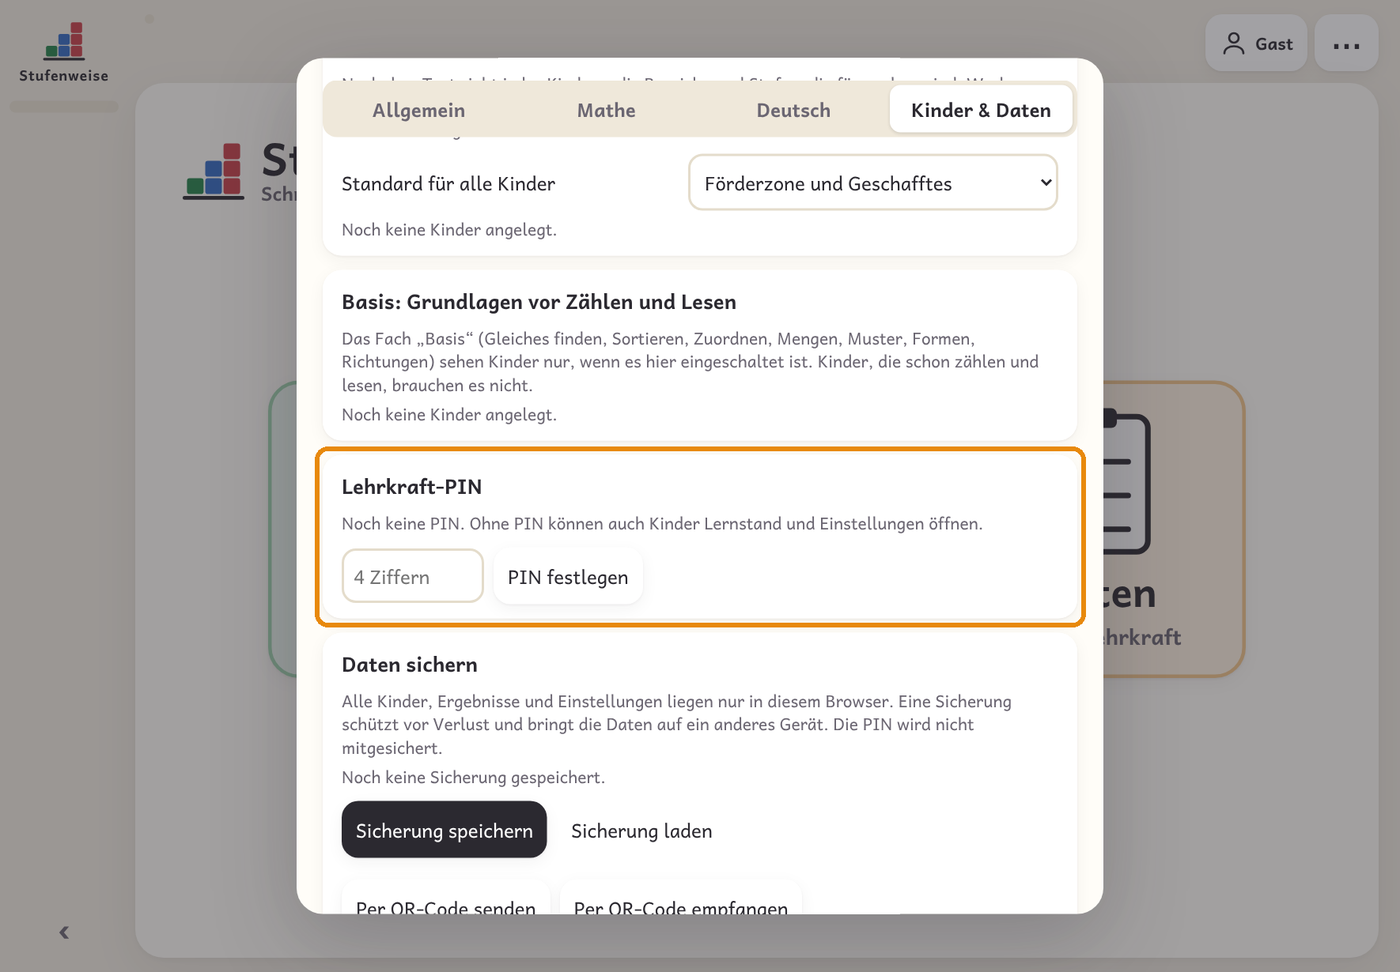
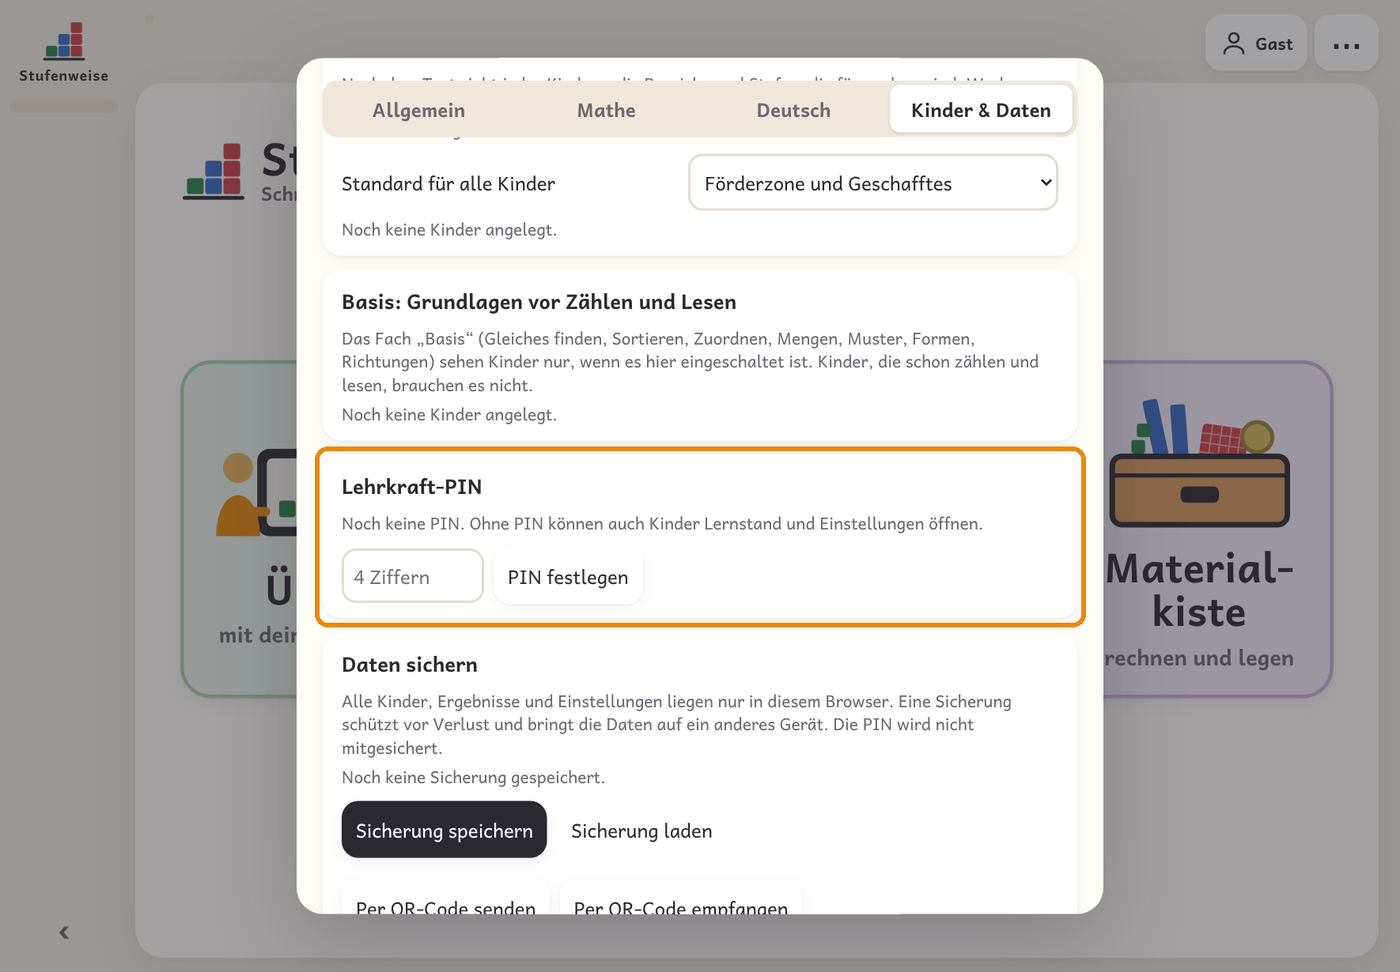
Testversion aus entwicklung (fda4302 = 0.30.0)
Claude-Session: https://claude.ai/code/session_01EfzymwcCT74kCf4Hq4zjqh

diff --git a/index.html b/index.html
@@ -9848,7 +9848,7 @@ document.addEventListener('change', e => { const c = e.target.closest('[data-sub
 document.addEventListener('change', e => { const s = e.target.closest('[data-guide-pid]'); if(!s) return; const p = data.profiles.find(x => x.id === s.dataset.guidePid); if(p){ p.guide = s.value || undefined; saveData(); render(); } });
 
 /* ---------- Rückmeldung (Testphase): Art, Schwere, Text + automatischer Kontext → E-Mail ---------- */
-const APP_VERSION = '0.30.0 · Testversion 1c66f25 · 20.11.2026';
+const APP_VERSION = '0.31.0 · Testversion fda4302 · 20.11.2026';
 /* Danke-Seite: Namen nur mit Einverständnis eintragen, z. B. 'Vorname Nachname (Schule)' */
 const THANKS = [];
 const FB_REPO = 'https://github.com/Steffinuss/stufenweise';

diff --git a/tests/anleitung_bilder.py b/tests/anleitung_bilder.py
@@ -91,6 +91,16 @@ async def main():
         await pg.click('#btn-more'); await pg.click('#btn-help'); await pg.wait_for_timeout(300)
         await pg.evaluate("[...document.querySelectorAll('#dlg-help *')].filter(e=>e.textContent.trim().startsWith('Freie Software') && e.textContent.trim().length<20).pop().scrollIntoView({block:'start', behavior:'instant'})"); await pg.wait_for_timeout(500)
         await shot('15_lizenz')
+        # Materialkiste (seit 0.30.0): Startseite → Materialkiste → Kind → Taschenrechner mit Ergebnis als Material
+        await pg.keyboard.press('Escape'); await pg.wait_for_timeout(200)
+        await pg.click('#btn-home'); await pg.wait_for_timeout(300)
+        if await pg.locator('[data-ctx-reset]').count(): await pg.click('[data-ctx-reset]'); await pg.wait_for_timeout(300)
+        await pg.click('[data-ctx-kiste]'); await pg.wait_for_timeout(200)
+        if await pg.locator('.home-names [data-home-pick]').count(): await pg.click('.home-names [data-home-pick]:not([data-home-pick=""])'); await pg.wait_for_timeout(200)
+        await pg.click('.ct-tile[data-kiste="tcalc"]'); await pg.wait_for_timeout(200)
+        for k in ['1', '2', '3', '4', '*', '3', '=']: await pg.click(f'[data-trk="{k}"]')
+        await pg.mouse.move(5, 800)
+        await shot('16_materialkiste', 400, hl='.rail [data-kiste="tcalc"]')
         json.dump(HL, open(OUT+'hl.json','w'))
         await b.close(); print('ERR', errs)
 asyncio.run(main())

diff --git a/BACKLOG.md b/BACKLOG.md
@@ -4,7 +4,7 @@ Geplante Entwicklungsaufgaben für Stufenweise. Begonnenes steht in `IN_PROGRESS
 
 Regeln (Stand 17.11.2026): Der Funktionsumfang von `main` ist eingefroren, weil die App an Schulen genutzt wird. Neues entsteht nur im Zweig `entwicklung`, wird in der Testversion gezeigt und erst nach Stefans OK freigegeben (`docs/entwicklung.md`). Didaktische Entscheidungen trifft Stefan.
 
-Stand: 20.11.2026
+Stand: 20.11.2026 (0.30.0)
 
 ## Vorgeschlagene Reihenfolge
 
@@ -14,7 +14,7 @@ Stand: 20.11.2026
 | 1 | ~~**C** Basis: bessere Progression~~ | mittel | freigegeben in 0.29.0 (20.11.2026), siehe `CHANGELOG.md` |
 | 2 | ~~**B** Unterricht: Zahl im Zwanzigerfeld~~ | klein | freigegeben in 0.29.0 (20.11.2026), siehe `CHANGELOG.md` |
 | 3 | ~~**A** Plus und Minus aufteilen~~ | groß | freigegeben in 0.29.0 (20.11.2026), siehe `CHANGELOG.md` | 
-| 4 | **D** Materialkiste (Hilfen für Schüler*innen) | mittel | gebaut 20.11. in `entwicklung`, in der Testversion; wartet auf Stefans Freigabe (`IN_PROGRESS.md`) |
+| 4 | ~~**D** Materialkiste (Hilfen für Schüler*innen)~~ | mittel | freigegeben in 0.30.0 (20.11.2026), siehe `CHANGELOG.md` |
 
 Alternative: B zuerst als schneller Gewinn, während Stefan den Basis-Test ausprobiert.
 
@@ -22,7 +22,7 @@ Alternative: B zuerst als schneller Gewinn, während Stefan den Basis-Test auspr
 
 ## D: Materialkiste – Hilfen für Schüler*innen als eigenes Modul
 
-**Status:** gebaut 20.11.2026 in `entwicklung`, in der Testversion; wartet auf Stefans Rückmeldung und Freigabe (`IN_PROGRESS.md`).
+**Status:** erledigt 20.11.2026, freigegeben in 0.30.0 (Stefan: „Sieht gut aus“).
 **Wunsch Stefan (20.11.):** Die Rechenhilfe soll kein Teil von Mathe/Plus-Minus sein, sondern ein ganz unabhängiges Modul, „quasi wie ein Taschenrechner, Materialvorrat usw.“ für Schüler*innen.
 
 **Ausgangslage:**

diff --git a/CHANGELOG.md b/CHANGELOG.md
@@ -5,6 +5,10 @@ Versionen: Hauptversion.Nebenversion.Korrektur (Korrektur = Fehlerbehebung, Nebe
 
 ## Unveröffentlicht (Zweig `entwicklung`, Testversion)
 
+- noch nichts
+
+## 0.30.0 – 20.11.2026
+
 Neu:
 - **Materialkiste** (Backlog D): vierte Kachel auf der Startseite neben Üben, Unterricht und Testen. Hilfen für Kinder, die eine Aufgabe haben (z. B. vom Arbeitsblatt): Rechenhilfe, Taschenrechner, Frei legen, Zwanzigerfeld, Hundertertafel, Zahlenstrahl, Uhr. Für alle Kinder, auch in der geführten Oberfläche; keine Bewertung, keine Runden, kein „Schwerer/Leichter“, freier Zahlenraum.
 - **Taschenrechner** in der Materialkiste: plus, minus, mal (·), geteilt (:) mit Zahlen bis 10 000, große Tasten, auch mit der Tastatur; geteilt mit Rest; Ergebnis wahlweise als Material (Tausender, Hunderter, Zehner, Einer).
@@ -12,7 +16,7 @@ Neu:
 
 Geändert:
 - Die Rechenhilfe ist aus der Mathe-Leiste und den Mathe-Kacheln in die Materialkiste umgezogen. Aufgaben in der Rechenhilfe werden nicht mehr protokolliert.
-- Hilfe in der App und Anleitung beschreiben die Materialkiste.
+- Hilfe in der App und Anleitung beschreiben die Materialkiste; Bildschirmfotos der Anleitung erneuert.
 
 Für Entwickler*innen: `app.kiste`, `KISTE_TOOLS`, `kisteGo`, `kisteCount`, `data.kiste[pid][werkzeug]` (beim Zusammenführen mehrerer Fenster addiert wie `errs`), Taschenrechner `app.tr`/`renderTcalc` als Werkzeug in `TOOL_MODES` (`tcalc`); neuer Test `tests/materialkiste.py`.
 

diff --git a/docs/anleitung.md b/docs/anleitung.md
@@ -135,6 +135,8 @@ Die vierte Kachel auf der Startseite heißt **Materialkiste**. Sie ist für den 
 - **Taschenrechner:** plus, minus, mal (·) und geteilt (:) mit Zahlen bis 10 000, große Tasten, auch mit der Tastatur. Geteilt rechnet ohne Komma, mit Rest („17 : 5 = 3 Rest 2“). Mit **Ergebnis als Material** (oben) zeigt er das Ergebnis zusätzlich als Tausender, Hunderter, Zehner und Einer. Ein weiteres Rechenzeichen rechnet mit dem Ergebnis weiter, **C** löscht alles.
 - **Frei legen, Zwanzigerfeld, Hundertertafel, Zahlenstrahl, Uhr:** dieselben Werkzeuge wie im Unterricht an der Tafel.
 
+![Materialkiste: Taschenrechner mit dem Ergebnis als Material, links die Werkzeuge](bilder/16_materialkiste.png)
+
 Links wechselt das Kind das Werkzeug, **Fertig** führt zurück zur Auswahl. Alle Kinder sehen die Materialkiste, auch in der geführten Oberfläche. Es gibt keine Bewertung, keine Runden und keine Vorschläge „Schwerer/Leichter“. Gespeichert wird nur, wie oft ein Kind welches Werkzeug geöffnet hat (bei „Gast“ nichts). Das steht im Lernstand unter „Materialkiste (selbst genutzt)“ (auch beim Kopieren und in der Elterninfo) und im ILEB-Vorschlag für Mathe als Satz unter „Lernstand“.
 
 Die **Startrunde** (3 Aufgaben) eignet sich zum Aufwärmen, die **Lernlandkarte** zeigt, was das Kind schon kann.

diff --git a/IN_PROGRESS.md b/IN_PROGRESS.md
@@ -5,11 +5,4 @@ Arbeitsweise mit zwei Zweigen: `docs/entwicklung.md`.
 
 Stand: 20.11.2026
 
-## D: Materialkiste (Hilfen für Schüler*innen als eigenes Modul)
-
-Begonnen und gebaut 20.11.2026 im Zweig `entwicklung`, in der Testversion zum Ausprobieren. Wartet auf Stefans Rückmeldung und Freigabe.
-Entscheidungen und Umsetzung: `BACKLOG.md` → D; Änderungen: `CHANGELOG.md` → Unveröffentlicht.
-
-Zum Ausprobieren: Startseite → Materialkiste → Kind → Werkzeug; Taschenrechner auch mit Tastatur; im Lernstand des Kindes „Materialkiste (selbst genutzt)“, im ILEB-Vorschlag Mathe ein Satz unter „Lernstand“.
-
-Bei der Freigabe: Anleitungsbilder neu (`01_start` zeigt dann vier Kacheln), eventuell ein Bild der Materialkiste in die Anleitung.
+Gerade nichts in Arbeit. Die Materialkiste (Backlog D) ist mit 0.30.0 freigegeben (siehe `CHANGELOG.md`).

diff --git a/README.md b/README.md
@@ -1,4 +1,4 @@
-> **Testversion von Stufenweise** – Stand aus [Steffinuss/stufenweise](https://github.com/Steffinuss/stufenweise), Zweig `entwicklung` (1c66f25). Nicht für den Unterricht. Hier nicht direkt arbeiten.
+> **Testversion von Stufenweise** – Stand aus [Steffinuss/stufenweise](https://github.com/Steffinuss/stufenweise), Zweig `entwicklung` (fda4302). Nicht für den Unterricht. Hier nicht direkt arbeiten.
 
 # Stufenweise
 
